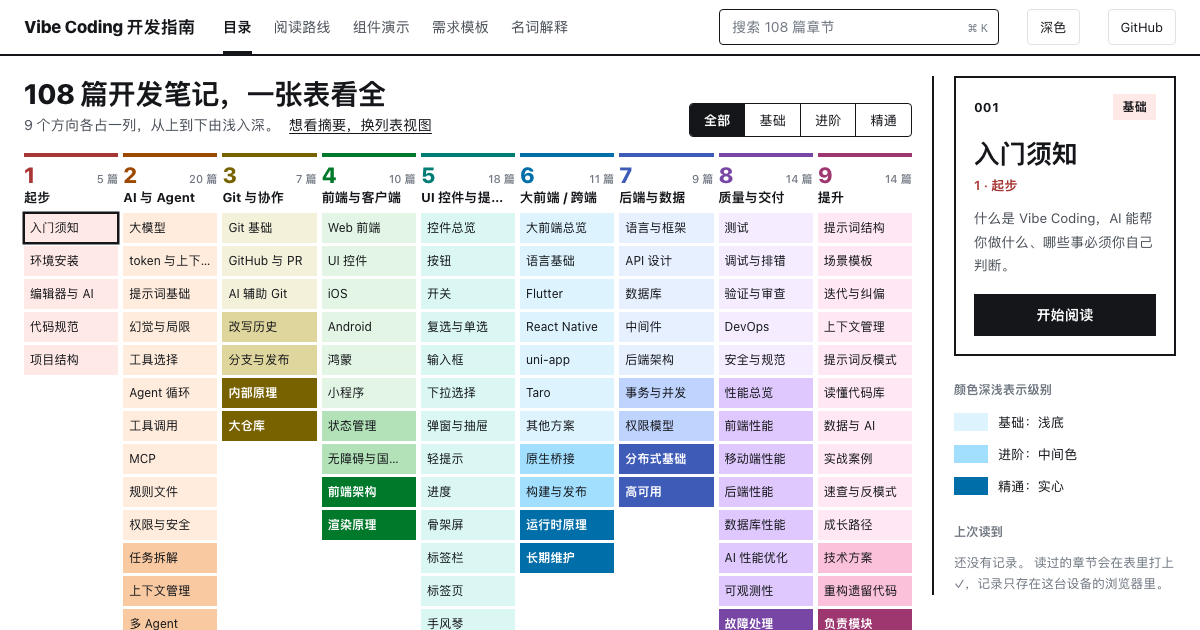
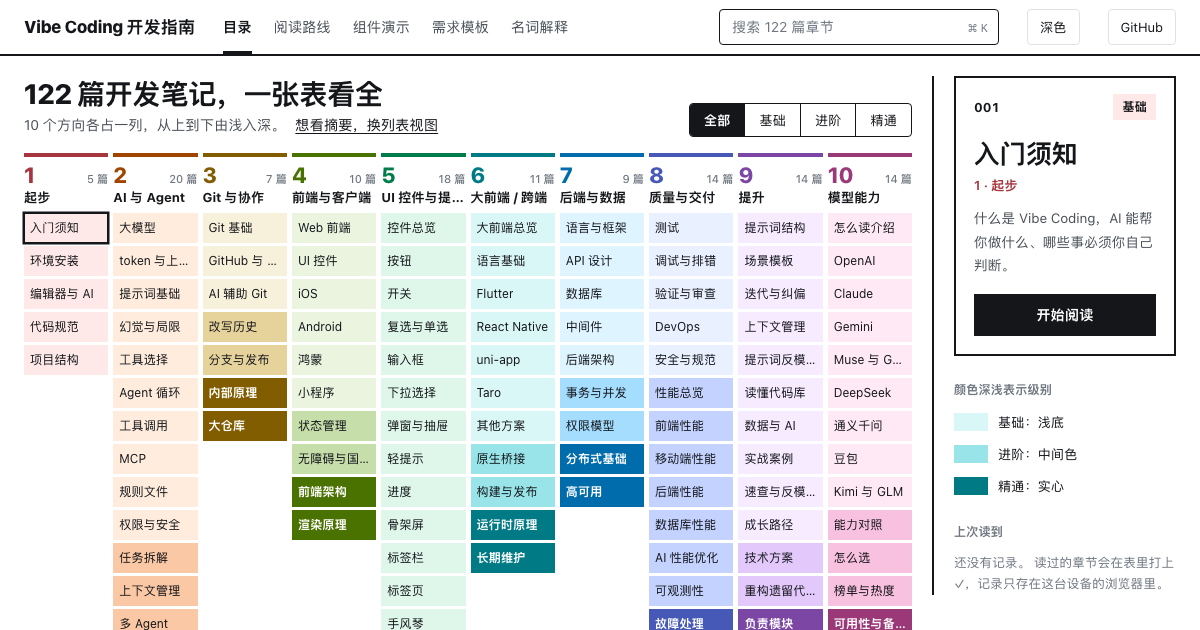
feat: 新增第 10 个方向「模型能力」
- 登记 14 篇章节（全站编号 109–122，原有编号不变）和方向页
- 首页表格与章节页左栏改为 10 列；10 个色相在色相环上等距 36°，
  原来 9 个色相小幅挪动，避免新色相与邻近色相分不开
- 页脚的篇数改为读章节数据；命令面板里的演示数量、分享卡片图同步
- 「完成你的第一个项目」路线在 AI 之后加入模型能力
- DESIGN.md、PRODUCT.md、README.md、HANDOFF.md、design.json 同步

Changed region(s): [[0.0617, 0.2413, 0.8325, 1.0], [0.0, 0.1206, 0.37, 0.2111], [0.6475, 0.0302, 0.6783, 0.0603]]

diff --git a/docs/.vitepress/theme/data/modules.ts b/docs/.vitepress/theme/data/modules.ts
@@ -250,6 +250,30 @@ const rawModules: Module[] = [
       at('精通', s('growth', 'decisions', '技术选型与决策', '技术决策', '选型维度与决策记录（ADR）。')),
     ],
   },
+  {
+    id: 'models',
+    no: 10,
+    name: '模型能力',
+    intro: '美国和中国大陆常用的大模型：各家有哪些型号、能做什么、有什么限制，以及怎么对比和选择。',
+    dir: 'models',
+    tag: '通用',
+    chapters: [
+      s('models', 'how-to-read', '怎么读一份模型介绍', '怎么读介绍', '上下文、输出上限、模态、思考、工具调用、开放权重：看模型介绍时该看哪几项，以及这一组笔记的取材规则。', '先读这一篇'),
+      s('models', 'openai', 'OpenAI：GPT-6 系列', 'OpenAI', 'GPT-6 Astra、GPT-6.1 Sol、GPT-6 Luna 三档的定位、上下文和能支持的功能。', '美国厂商'),
+      s('models', 'anthropic', 'Anthropic：Claude 系列', 'Claude', 'Fable、Opus、Sonnet、Haiku 四档：定位、1M 上下文、自适应思考，以及几个会返回错误的用法。', '美国厂商'),
+      s('models', 'google', 'Google：Gemini 系列', 'Gemini', 'Gemini 4 的三个型号和 3.x 的 Flash 档：多模态输入、思考档位与稳定、预览状态。', '美国厂商'),
+      s('models', 'meta-xai', 'Meta Muse 与 xAI Grok', 'Muse 与 Grok', 'Meta 现在对外的 Muse 系列，xAI 的 Grok 4.7：能确认的内容和没能确认的内容。', '美国厂商'),
+      s('models', 'deepseek', 'DeepSeek', 'DeepSeek', 'V4.1 Flash 与 V4 Pro：开放权重、1M 上下文、思考模式，以及兼容 OpenAI 和 Anthropic 的接口。', '中国大陆厂商'),
+      s('models', 'qwen', '阿里通义千问 Qwen', '通义千问', '百炼上的 Qwen3.8 与 Qwen4 预览，开放权重的 27B、2.4T 和代码模型，以及全模态模型。', '中国大陆厂商'),
+      s('models', 'doubao', '字节豆包 Seed', '豆包', 'Seed2.1 的 Pro、Turbo、Lite，以及视频、图像、实时语音和音频模型。', '中国大陆厂商'),
+      s('models', 'kimi-glm', 'Kimi、智谱 GLM 与腾讯 Hy4', 'Kimi 与 GLM', 'Kimi K3.1 Pro、GLM-5.3 系列和腾讯 Hy4 preview：定位、上下文与开放权重。', '中国大陆厂商'),
+      at('进阶', s('models', 'compare', '能力对照表', '能力对照', '把各家主力型号的上下文、输出上限、模态、思考档位和开放权重放进一张带日期的表。', '对比与选择')),
+      at('进阶', s('models', 'choose', '怎么选模型', '怎么选', '按编程、长文档、多模态、私有部署和成本几个场景，列出该看的指标和常见做法。', '对比与选择')),
+      at('进阶', s('models', 'signals', '怎么看榜单和热度', '榜单与热度', 'OpenRouter 的调用量和 Arena 的排名各衡量什么，附带日期的前几名，以及不能拿它们推出什么。', '对比与选择')),
+      at('精通', s('models', 'compliance', '大陆可用性、备案与许可', '可用性与备案', '各家官方的地区名单怎么写的，生成式 AI 管理办法里与境内服务相关的条款，以及开放权重的许可类型。', '接入与更新')),
+      at('精通', s('models', 'lifecycle', '型号更新与迁移', '型号更新', '别名和固定版本、弃用日期、接口参数变化：模型换代时代码要怎么不被打断。', '接入与更新')),
+    ],
+  },
 ]
 
 /** 模块内章节按级别稳定排序；同一子分组须属于同一级别，排序后仍然连续 */

diff --git a/docs/.vitepress/theme/styles/atlas.css b/docs/.vitepress/theme/styles/atlas.css
@@ -1,5 +1,5 @@
 /* ============================================================
-   章节表设计：108 篇 = 9 个方向 × 3 个级别
+   章节表设计：10 个方向 × 3 个级别
    全站只有一种基本单元「章节格」：色相区分方向，深浅区分级别。
    命名空间 at-*，由 index.ts 最后引入，同时改写全站设计令牌。
    ============================================================ */
@@ -69,16 +69,17 @@
   --at-on: #101215;
 }
 
-/* 九个方向各一个色相 */
-[data-fam='1'] { --at-h: 25; }
-[data-fam='2'] { --at-h: 62; }
-[data-fam='3'] { --at-h: 100; }
-[data-fam='4'] { --at-h: 148; }
-[data-fam='5'] { --at-h: 190; }
-[data-fam='6'] { --at-h: 232; }
-[data-fam='7'] { --at-h: 268; }
-[data-fam='8'] { --at-h: 305; }
-[data-fam='9'] { --at-h: 350; }
+/* 十个方向各一个色相，色相环上等距 36° */
+[data-fam='1'] { --at-h: 20; }
+[data-fam='2'] { --at-h: 56; }
+[data-fam='3'] { --at-h: 92; }
+[data-fam='4'] { --at-h: 128; }
+[data-fam='5'] { --at-h: 164; }
+[data-fam='6'] { --at-h: 200; }
+[data-fam='7'] { --at-h: 236; }
+[data-fam='8'] { --at-h: 272; }
+[data-fam='9'] { --at-h: 308; }
+[data-fam='10'] { --at-h: 344; }
 [data-fam] {
   --at-c: oklch(var(--at-l-solid) var(--at-c-solid) var(--at-h));
   --at-mid: oklch(var(--at-l-mid) var(--at-c-mid) var(--at-h));
@@ -148,7 +149,7 @@
 .at-levels button { height: 32px; padding: 0 14px; background: none; border: 0; border-left: 1.5px solid var(--ink); font-size: 13px; color: var(--ink); cursor: pointer; }
 .at-levels button:first-child { border-left: 0; }
 .at-levels button[aria-pressed='true'] { background: var(--ink); color: var(--paper); font-weight: 600; }
-.at-table { display: grid; grid-template-columns: repeat(9, minmax(0, 1fr)); gap: 5px; align-items: start; }
+.at-table { display: grid; grid-template-columns: repeat(10, minmax(0, 1fr)); gap: 5px; align-items: start; }
 .at-col h2 {
   height: 60px; margin: 0; padding-top: 7px; border-top: 4px solid var(--at-c);
   display: grid; grid-template-columns: 1fr auto; align-items: baseline; align-content: start; row-gap: 3px;
@@ -196,7 +197,7 @@
   --on-accent: var(--at-on);
 }
 .at-rail, .at-toc { position: sticky; top: 84px; max-height: calc(100vh - 100px); overflow-y: auto; }
-.at-fams { display: grid; grid-template-columns: repeat(9, 1fr); gap: 3px; margin-bottom: 16px; }
+.at-fams { display: grid; grid-template-columns: repeat(10, 1fr); gap: 3px; margin-bottom: 16px; }
 .at-fams a { height: 24px; display: grid; place-items: center; font-size: 12px; font-weight: 700; background: var(--at-tint); color: var(--ink); }
 .at-fams a:hover { background: var(--at-mid); }
 .at-fams a[aria-current] { background: var(--at-c); color: var(--at-on); }

diff --git a/docs/.vitepress/theme/components/CommandPalette.vue b/docs/.vitepress/theme/components/CommandPalette.vue
@@ -15,7 +15,7 @@ interface Item {
 
 const actions: Item[] = [
   { id: 'p-home', title: '首页', sub: '继续读，或者整理一段需求', link: '/', group: '常用页面' },
-  { id: 'p-lab', title: '组件演示', sub: '17 个可操作的组件例子', link: '/lab', group: '常用页面' },
+  { id: 'p-lab', title: '组件演示', sub: '21 个可操作的组件和 App 效果', link: '/lab', group: '常用页面' },
   { id: 'p-prompts', title: '需求模板', sub: '写功能、修 bug 和审查的模板', link: '/growth/prompt-templates', group: '常用页面' },
   { id: 'p-review', title: '质量与交付', sub: '测试、调试、审查和发布', link: '/courses/quality', group: '常用页面' },
 ]

diff --git a/docs/.vitepress/theme/components/site/SiteFooter.vue b/docs/.vitepress/theme/components/site/SiteFooter.vue
@@ -1,6 +1,7 @@
 <script setup lang="ts">
 import { withBase } from 'vitepress'
 import SiteIcon from './SiteIcon.vue'
+import { totalChapters } from '../../data/modules'
 </script>
 <template>
   <footer class="site-footer">
@@ -25,7 +26,7 @@ import SiteIcon from './SiteIcon.vue'
       </nav>
     </div>
     <div class="footer-bottom">
-      <span>内容以 MIT 协议开源</span><span>108 篇 · 网址一直有效 · 阅读记录只存本机</span>
+      <span>内容以 MIT 协议开源</span><span>{{ totalChapters }} 篇 · 网址一直有效 · 阅读记录只存本机</span>
     </div>
   </footer>
 </template>

diff --git a/docs/.vitepress/theme/data/experience.ts b/docs/.vitepress/theme/data/experience.ts
@@ -48,8 +48,8 @@ export const learningPaths = [
     title: '完成你的第一个项目',
     description: '从环境、AI 协作到版本管理，建立完整开发习惯。',
     icon: 'start',
-    modules: ['start', 'ai', 'git', 'quality'],
-    outcome: '能够拆解一个小需求，用 Codex 实现、检查，并提交可审查的 PR。',
+    modules: ['start', 'ai', 'models', 'git', 'quality'],
+    outcome: '能够拆解一个小需求，按场景挑选合适的模型，用 Codex 实现、检查，并提交可审查的 PR。',
   },
   {
     id: 'interface',

diff --git a/docs/.vitepress/theme/components/atlas/AtlasFamIndex.vue b/docs/.vitepress/theme/components/atlas/AtlasFamIndex.vue
@@ -2,7 +2,7 @@
 import { withBase } from 'vitepress'
 import { modules } from '../../data/modules'
 
-// 九个方向的索引：目录列表页和方向页的左栏共用
+// 全部方向的索引：目录列表页和方向页的左栏共用
 defineProps<{ current?: string }>()
 </script>
 

diff --git a/DESIGN.md b/DESIGN.md
@@ -1,6 +1,6 @@
 ---
 name: "Vibe Coding 开发指南"
-description: "章节表设计系统：108 篇 = 9 个方向 × 3 个级别，色相区分方向，深浅区分级别。"
+description: "章节表设计系统：10 个方向 × 3 个级别，色相区分方向，深浅区分级别。"
 colors:
   paper: "#ffffff"
   paper-2: "#f4f5f6"
@@ -140,9 +140,9 @@ components:
 
 ## Overview
 
-**Creative North Star：一张表看全。** 站点内容是 108 篇笔记，正好是 9 个方向 × 3 个级别。设计只做一件事：把这个结构原样摆出来。全站只有一种基本单元「章节格」，它带三位编号和短标题，用色相表示属于哪个方向，用深浅表示级别。首页是 9 列 108 格的整张表，章节页左栏是其中一列，方向页、路线页、列表页都是这些格子的不同排法。
+**Creative North Star：一张表看全。** 站点内容是 10 个方向 × 3 个级别的笔记，当前共 122 篇（最初 9 个方向 108 篇，后来新增「模型能力」方向）。设计只做一件事：把这个结构原样摆出来。全站只有一种基本单元「章节格」，它带三位编号和短标题，用色相表示属于哪个方向，用深浅表示级别。首页是 9 列 108 格的整张表，章节页左栏是其中一列，方向页、路线页、列表页都是这些格子的不同排法。
 
-白底、墨色文字、2px 墨色粗线，系统无衬线字，方角。除了九个方向的色相，页面上没有别的装饰色。
+白底、墨色文字、2px 墨色粗线，系统无衬线字，方角。除了十个方向的色相，页面上没有别的装饰色。
 
 ## Colors
 
@@ -151,8 +151,8 @@ components:
 - **ink-2、ink-3**：摘要与辅助信息。**rule `#dfe2e6`**：细分隔线。
 - 全站强调色 `--accent` 就是墨色：主按钮、选中的筛选项、顶栏当前项都是墨底或墨线。
 
-### 方向色（九个色相）
-每个方向一个色相，写在 `[data-fam='1'..'9']` 上：25、62、100、148、190、232、268、305、350。
+### 方向色（十个色相）
+每个方向一个色相，写在 `[data-fam='1'..'10']` 上，在色相环上等距 36°：20、56、92、128、164、200、236、272、308、344。新增第 10 个方向时，原来的九个色相（25、62、100、148、190、232、268、305、350）整体做了小幅挪动，为的是让相邻两个色相的间隔不小于 36°；只在最宽的空档里插一个，间隔只有 24°，分不开。以后再加方向，要先重排色相。
 
 ### 级别（三档，全站不出现第四档）
 | 级别 | 浅色模式 | 深色模式 | 文字 |
@@ -173,7 +173,7 @@ components:
 ## Layout
 
 - **顶栏**：56px 高，底边 2px 墨线；左侧站名和五个入口（目录、阅读路线、组件演示、需求模板、名词解释），右侧搜索、深浅色、GitHub。
-- **首页**：左边 9 列章节表，右边 244px 详情栏（详情卡、图例、上次读到）。1440 宽下 108 格一屏看全。
+- **首页**：左边 10 列章节表，右边 244px 详情栏（详情卡、图例、上次读到）。最长的一列有 20 格，在 1440×860 的视口里要稍微往下滚一点才能看完。
 - **章节页**：240px 左栏（1–9 方向方块 + 当前方向那一列）、700px 正文、200px 本页目录。
 - **目录列表 / 方向页**：220px 方向索引 + 820px 章节行。
 - **路线页**：每条路线左边说明、右边按步骤排开各方向的章节格。
@@ -215,7 +215,7 @@ components:
 ### Do:
 - 新页面先问「能不能用章节格排出来」，能就不要另造卡片。
 - 颜色只表达方向，深浅只表达级别，状态用记号（✓、边框、透明度）。
-- 编号始终用全站三位编号（001–108），和首页表格一致。
+- 编号始终用全站三位编号（001–122，随章节数增加），和首页表格一致。
 - 筛选时保持表的形状，只改变透明度。
 
 ### Don't:

diff --git a/README.md b/README.md
@@ -1,14 +1,14 @@
 # Vibe Coding 开发指南
 
-Vibe Coding 开发笔记：环境、代码、调试和交付时随手查的 108 篇中文笔记。
+Vibe Coding 开发笔记：环境、代码、调试、交付和选模型时随手查的中文笔记。
 
-遇到问题时按左侧全站目录或搜索框查，也可以从首页的 9 个方向进入。每篇正文右侧有本页目录，底部是同一方向内的上一篇 / 下一篇；组件页能直接操作，需求模板按场景给出可一键复制的写法。读过标记只存在本机。
+遇到问题时按左侧全站目录或搜索框查，也可以从首页的 10 个方向进入。每篇正文右侧有本页目录，底部是同一方向内的上一篇 / 下一篇；组件页能直接操作，需求模板按场景给出可一键复制的写法。读过标记只存在本机。
 
-主要入口为 `/`（章节表首页）、`/learn`（带摘要的目录列表）、`/courses/<模块>`（方向）、`/paths`（路线）、`/growth/prompt-templates`（需求模板）、`/lab`（组件）和 `/glossary`（名词解释）；原有 108 篇章节地址继续有效。全站采用「章节表」设计：108 篇按 9 个方向 × 3 个级别排成一张表，色相区分方向，深浅区分级别；章节页为「当前方向那一列 + 正文 + 本页目录」。设计规格见 [DESIGN.md](DESIGN.md)。
+主要入口为 `/`（章节表首页）、`/learn`（带摘要的目录列表）、`/courses/<模块>`（方向）、`/paths`（路线）、`/growth/prompt-templates`（需求模板）、`/lab`（组件）和 `/glossary`（名词解释）；原有章节地址继续有效。全站采用「章节表」设计：108 篇按 9 个方向 × 3 个级别排成一张表，色相区分方向，深浅区分级别；章节页为「当前方向那一列 + 正文 + 本页目录」。设计规格见 [DESIGN.md](DESIGN.md)。
 
 ## 内容规划
 
-已覆盖 9 个模块、108 篇章节正文，每个模块内的章节按「基础 / 进阶 / 精通」三级排列（起步模块只有基础，UI 控件模块只有基础和进阶）：
+已覆盖 10 个模块、122 篇章节正文，每个模块内的章节按「基础 / 进阶 / 精通」三级排列（起步模块只有基础，UI 控件模块只有基础和进阶）：
 
 1. 起步：开发环境、编辑器与 AI 工具、代码规范、项目结构
 2. AI 与 Agent：AI 基础、Agent 基础（Agent 循环、工具调用、MCP、规则文件、权限）、进阶（任务拆解、上下文管理、多 Agent、Hooks、评测）、精通（复杂协作、成本、团队规范、自建工具链、风险与合规）
@@ -19,6 +19,7 @@ Vibe Coding 开发笔记：环境、代码、调试和交付时随手查的 108 
 7. 后端与数据：框架、API、数据库、中间件、架构；进阶的事务并发与权限模型；精通的分布式与高可用
 8. 质量与交付：测试、调试、审查、DevOps、安全；进阶的性能优化与可观测性；精通的故障处理与发布策略
 9. 提升：提示词实践、读代码、实战案例；进阶的技术方案与重构；精通的模块负责与技术决策
+10. 模型能力：美国和中国大陆常用大模型的型号与能力（OpenAI、Anthropic、Google、Meta、xAI、DeepSeek、通义千问、豆包、Kimi、智谱、腾讯 Hy4），进阶的能力对照、选型与榜单，精通的大陆可用性、备案与许可、型号更新；只写官方页面上的内容，标核对日期
 
 前置知识按需交代，检查方法紧跟示例，常见错误在对应位置提醒。章节按主题组织，不要求统一的结尾问答。
 

diff --git a/PRODUCT.md b/PRODUCT.md
@@ -26,20 +26,20 @@ VitePress + 自定义主题，部署到 GitHub Pages 子路径 /vibe-coding-guid
 
 - 内容用 Markdown 维护，开源（MIT），欢迎 PR 共建。
 - 首页、目录、方向页、阅读路线、组件页和需求模板各有独立入口；章节页只显示当前方向内的前后篇。
-- 108 篇章节地址、正文、原有 include、组件演示与提示词模板保持可用；示例统一使用 Codex，不恢复固定「三问」。
+- 原有 108 篇章节地址、正文、原有 include、组件演示与提示词模板保持可用；示例统一使用 Codex，不恢复固定「三问」。
 - 读过标记和最近阅读记录保存在当前浏览器，不提供账号、跨设备同步或证书。
 - 当前重设计优先桌面端，验收宽度为 1280 / 1440 / 1600 px；按用户要求暂不进行手机端专项验收。
-- 已覆盖 108 篇登记章节正文与既有交互演示；原生片段保留待校对状态，不得编造案例、数据或用户评价。
+- 已覆盖 122 篇登记章节正文与既有交互演示；原生片段保留待校对状态，不得编造案例、数据或用户评价。
 - 名词解释页（`/glossary`）按分类整理常见术语，支持中文 / 英文 / 缩写搜索与锚点深链；定义以通用共识为准，不编造。
 - 简体中文为主，中英文与数字之间留一个空格。
-- 内容规划：9 个方向（起步、AI 与 Agent、Git 与协作、前端与客户端、UI 控件与提示词、大前端 / 跨端、后端与数据、质量与交付、提升），方向内按「基础 / 进阶 / 精通」分级；章节数据统一维护在 `docs/.vitepress/theme/data/modules.ts`。
+- 内容规划：10 个方向（起步、AI 与 Agent、Git 与协作、前端与客户端、UI 控件与提示词、大前端 / 跨端、后端与数据、质量与交付、提升、模型能力），方向内按「基础 / 进阶 / 精通」分级；章节数据统一维护在 `docs/.vitepress/theme/data/modules.ts`。
 - 控件页的提示词要经过还原验证（独立 agent 只看提示词写实现，再与站内演示逐状态截图对比），验证状态与日期记在 `docs/.vitepress/theme/data/controlPrompts.ts`；没验证的不得标「已验证」。
 - 占位章节用 frontmatter `status: draft` 标注，不确定的内容写「待核实」。
 - 正文按主题组织，不使用统一的结尾问答模板；前置知识按需交代，检查方法紧跟示例，风险就地提醒。草稿可用「计划覆盖」保留写作要点。
 
 ## UX Commitments
 
-- 首页是一张章节表：9 个方向各占一列，108 篇一屏看全；色相区分方向，深浅区分级别（基础浅底、进阶中间色、精通实心）。悬停或聚焦某一格，右侧详情卡显示标题、摘要和入口；可按级别筛选。
+- 首页是一张章节表：10 个方向各占一列；色相区分方向，深浅区分级别（基础浅底、进阶中间色、精通实心）。悬停或聚焦某一格，右侧详情卡显示标题、摘要和入口；可按级别筛选。
 - 阅读页三栏：左侧是当前方向那一列（顶部 1–9 方块切换方向，当前篇加框），中间正文，右侧本页目录；翻页停留在当前方向，读过标记在正文末尾，读过的格子打 ✓。
 - 目录列表页（`/learn`）是同一份内容的带摘要视图，可按文字筛选；方向页按级别分三段列出章节；路线页按步骤摆出各方向的章节格。
 - 快速跳转打开后可搜索全部章节；顶栏搜索与 ⌘ K 是常态入口。

diff --git a/docs/index.md b/docs/index.md
@@ -3,7 +3,7 @@ layout: page
 markdownStyles: false
 title: Vibe Coding 开发指南
 titleTemplate: false
-description: 环境、代码、调试和交付时随手查的 108 篇笔记。
+description: 环境、代码、调试、交付和选模型时随手查的笔记。
 ---
 
 <HomePage />

diff --git a/docs/courses/models.md b/docs/courses/models.md
@@ -1,0 +1,7 @@
+---
+layout: page
+title: 模型能力
+description: 美国和中国大陆常用大模型的型号、能力、限制，以及怎么对比和选择。
+---
+
+<CoursePage module="models" />
